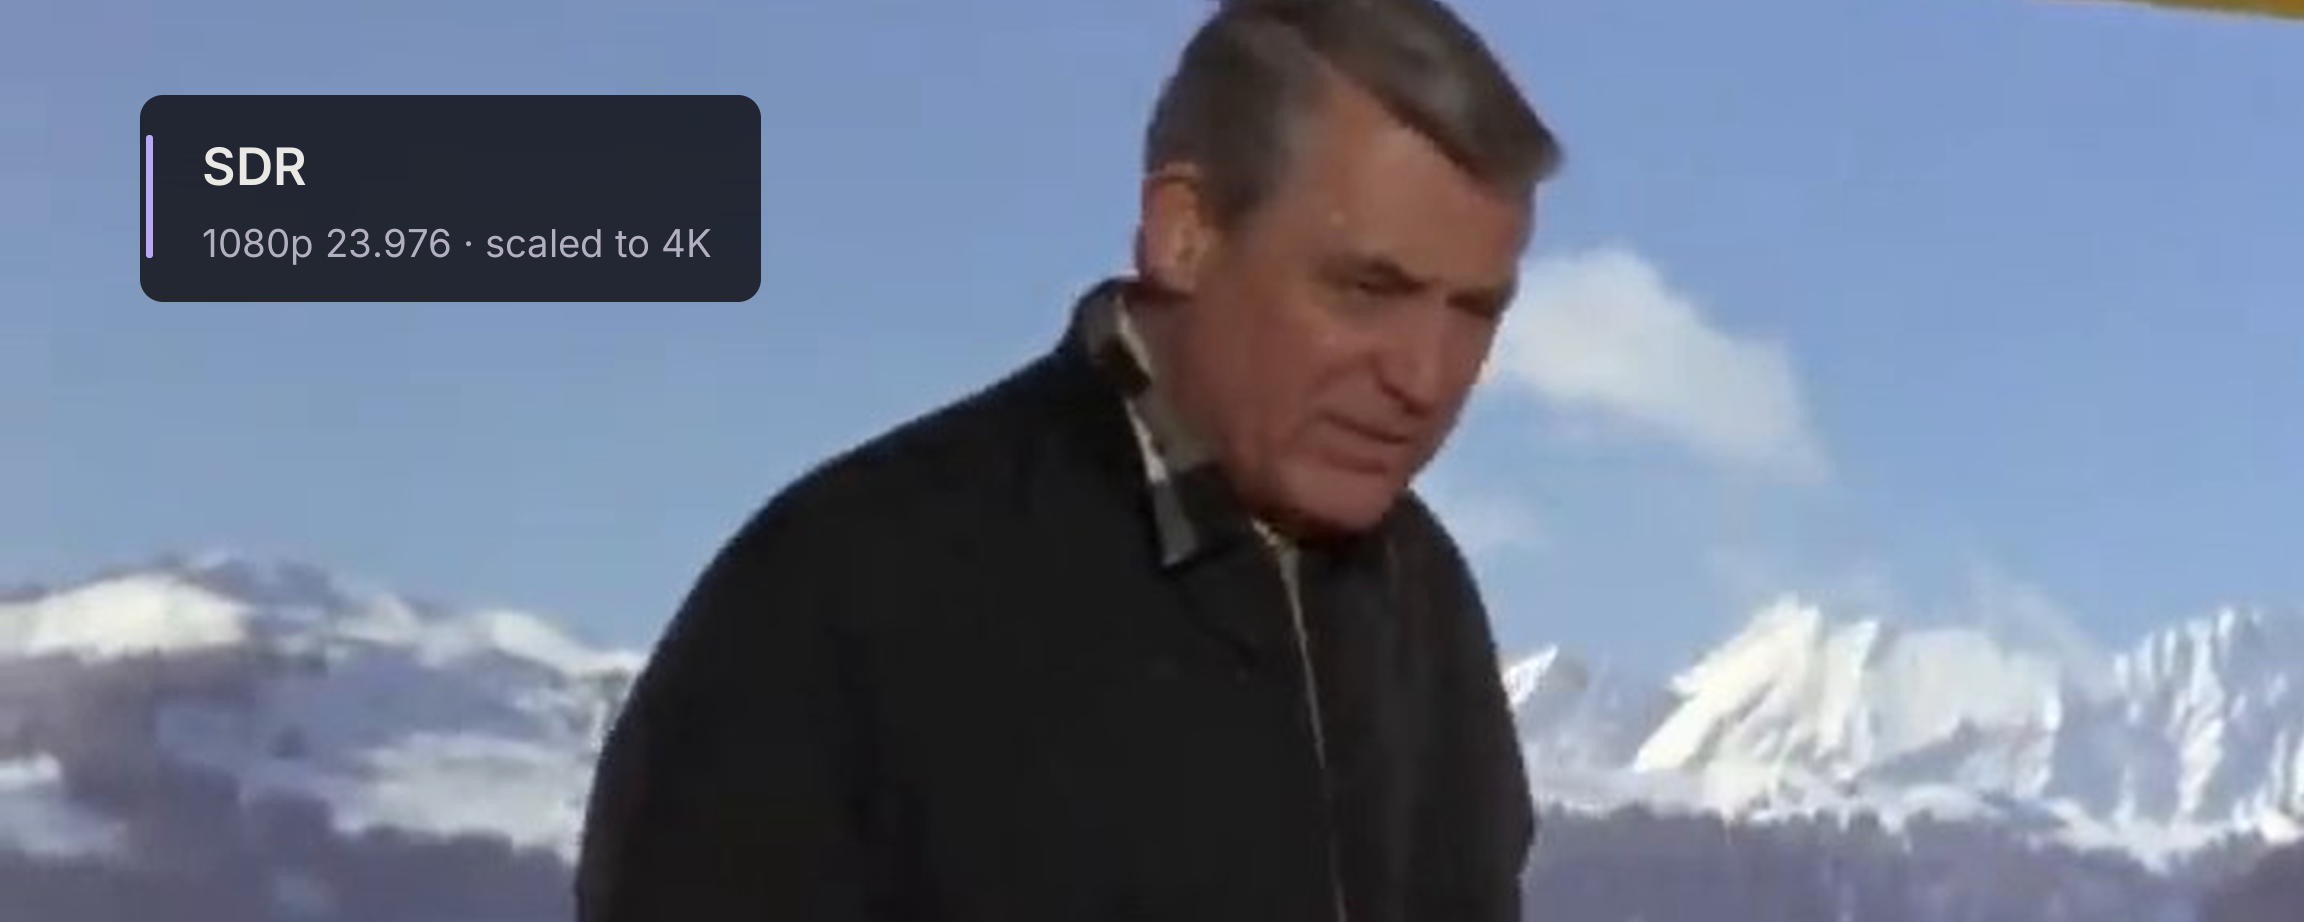
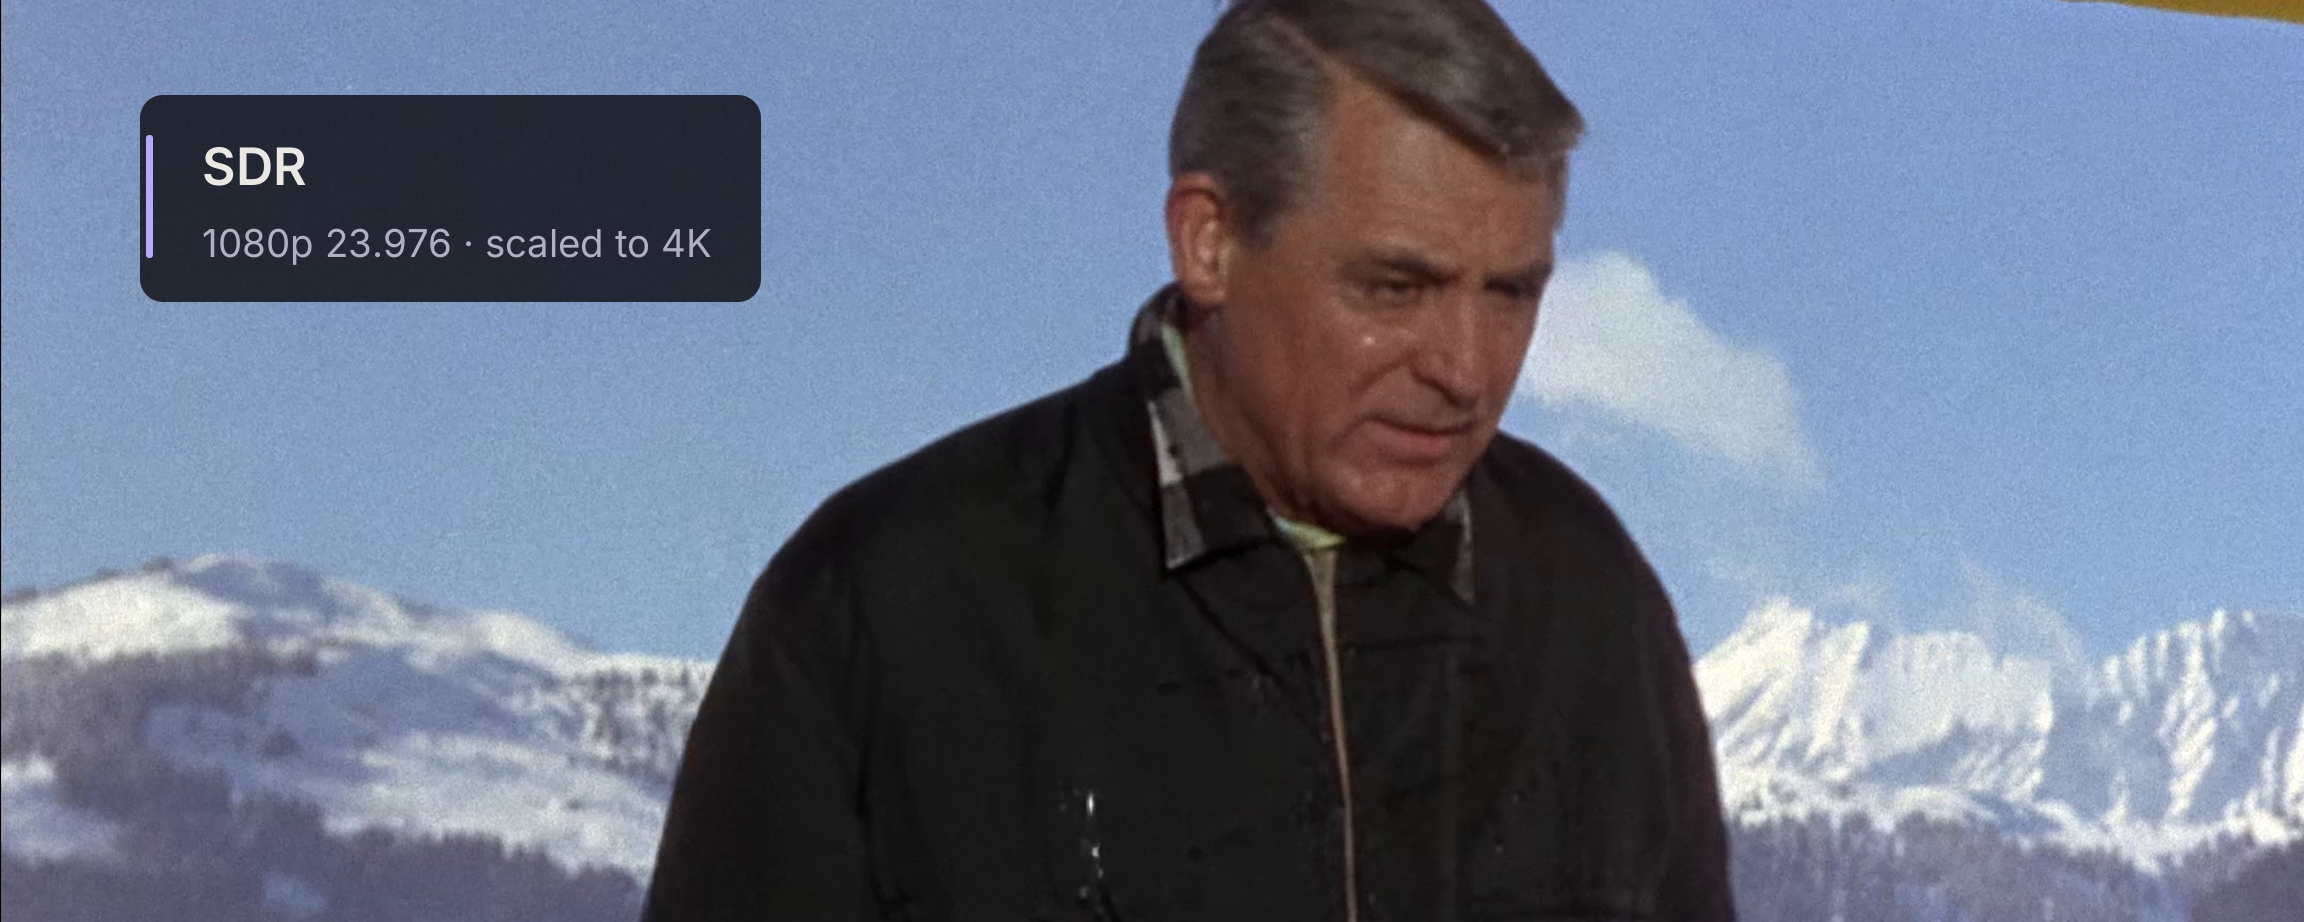
guide: Charade frames from a 4K copy, each the sharpest of its moment
- the same four shots, taken from archive.org's 4K (3840x2076) copy in
  place of the 720p one, which looked soft scaled to a 4K panel
- each frame chosen from several a quarter second apart by measured edge
  contrast, so none is caught mid-movement; the Megeve one is Grant
  standing still, the doorway one both of them still
- the landing page shows the doorway frame at its true 1.85

diff --git a/docs/guide/docs/index.md b/docs/guide/docs/index.md
@@ -36,10 +36,10 @@ customHead: '<link rel="stylesheet" href="/assets/css/landing.css"><link rel="ap
     <h2>Same height, every film</h2>
     <p>On a scope screen, a 16:9 show and a 2.39:1 film should stand the same height. cinefit finds the bars in every frame and places the picture so it does: no lens memories, no remote juggling between titles.</p>
   </div>
-  <div class="cih-art" role="img" aria-label="Two scope screens: a 16:9 frame from Charade with black at the sides, and a 2.39:1 frame from Tears of Steel filling the screen, both the same height">
+  <div class="cih-art" role="img" aria-label="Two scope screens: a 1.85:1 frame from Charade with black at the sides, and a 2.39:1 frame from Tears of Steel filling the screen, both the same height">
     <figure>
-      <svg viewBox="0 0 240 104"><rect x="2" y="2" width="236" height="100" rx="2" class="screen"/><clipPath id="pic-a"><rect x="31" y="2" width="178" height="100"/></clipPath><image href="/assets/images/frames/charade-doorway.jpg" x="31" y="2" width="178" height="100" preserveAspectRatio="xMidYMid slice" clip-path="url(#pic-a)"/><rect x="2" y="2" width="236" height="100" rx="2" class="frame"/></svg>
-      <figcaption>A 16:9 picture: <em>Charade</em> (1963)</figcaption>
+      <svg viewBox="0 0 240 104"><rect x="2" y="2" width="236" height="100" rx="2" class="screen"/><clipPath id="pic-a"><rect x="27.5" y="2" width="185" height="100"/></clipPath><image href="/assets/images/frames/charade-doorway.jpg" x="27.5" y="2" width="185" height="100" preserveAspectRatio="xMidYMid slice" clip-path="url(#pic-a)"/><rect x="2" y="2" width="236" height="100" rx="2" class="frame"/></svg>
+      <figcaption>A 1.85:1 film: <em>Charade</em> (1963)</figcaption>
     </figure>
     <figure>
       <svg viewBox="0 0 240 104"><rect x="2" y="2" width="236" height="100" rx="2" class="screen"/><clipPath id="pic-b"><rect x="2" y="2" width="236" height="100"/></clipPath><image href="/assets/images/frames/tos-canal.jpg" x="2" y="2" width="236" height="100" preserveAspectRatio="xMidYMid slice" clip-path="url(#pic-b)"/><rect x="2" y="2" width="236" height="100" rx="2" class="frame"/></svg>
